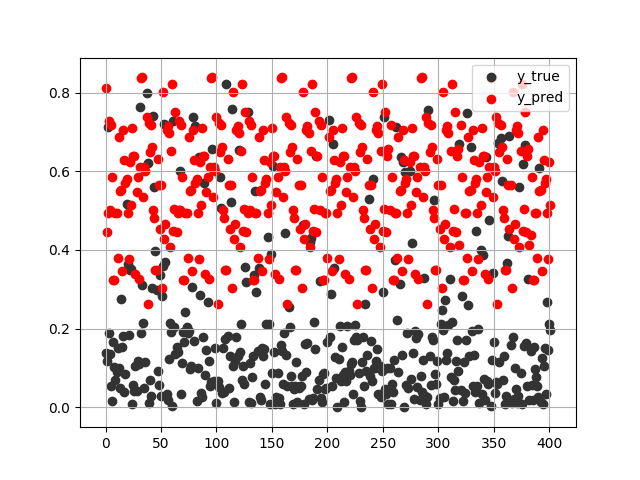
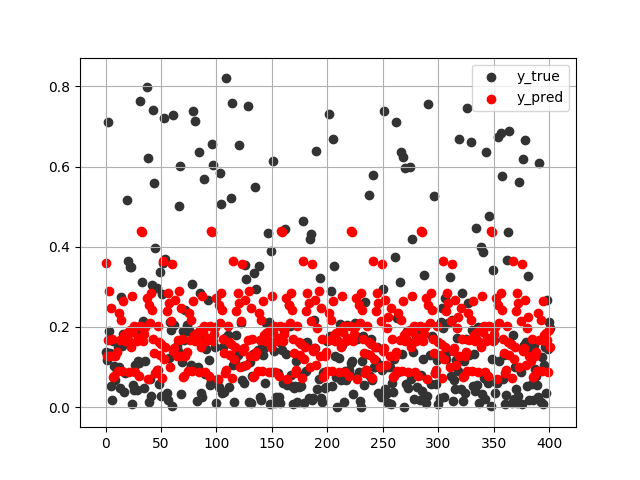
haha

diff --git a/examples/insurance_prediction/insurance_prediction.py b/examples/insurance_prediction/insurance_prediction.py
@@ -45,7 +45,7 @@ model.add(Layer(32, 16, activation='sigmoid', name='hidden_layer1'))
 # model.add(Layer(16, 8, activation='sigmoid', name='hidden_layer2'))
 model.add(Layer(16, 1, activation='sigmoid', name='output_layer'))
 model.compile(optimizer=Momentum(lr=0.001), batch=64, loss='mean_squared_error')
-model.fit(data_x, data_y, epochs=200, shuffle=False)
+model.fit(data_x, data_y, epochs=98, shuffle=False)
 
 y_pred = model.predict(test_x)
 
